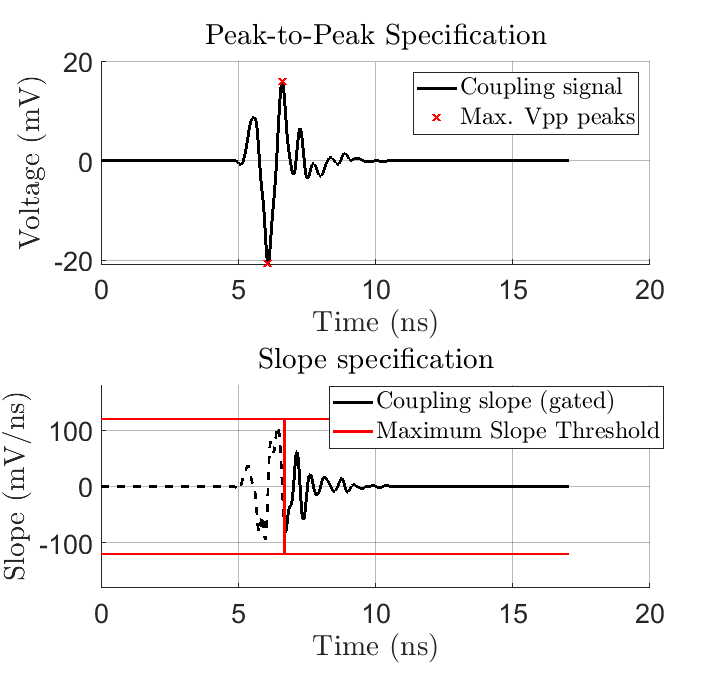
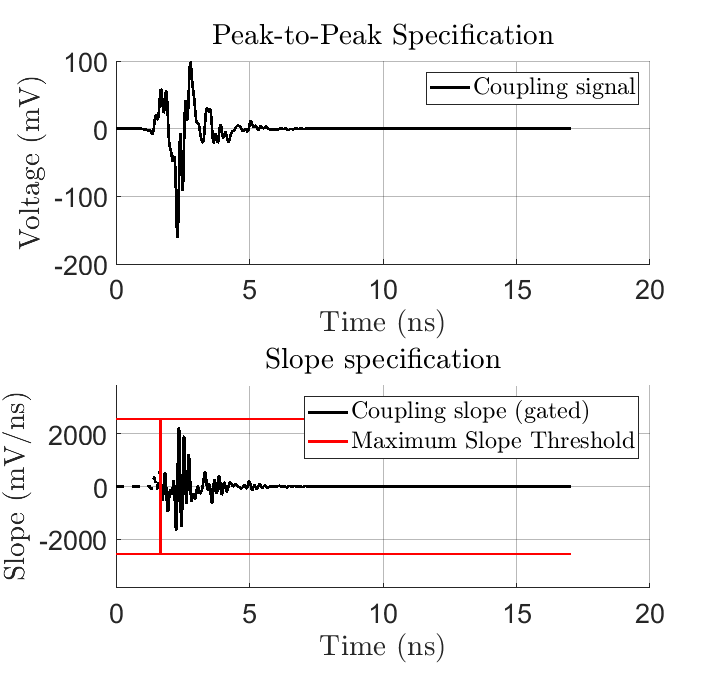
updated figs
updated figs & sizing

diff --git a/main.m b/main.m
@@ -331,7 +331,7 @@ function plot_fig_3(t,t_0,R,y_t,k)
     t_max       = t(max_ind);
     fwtm_2      = t_0 - t_max;
     
-    figure(); 
+    figure();  set(gcf,'position'[596   291   644   687]);
     subplot(2,1,2);
     hold on; grid on;
     plot((t-t_0).*1e9,R,'k');
